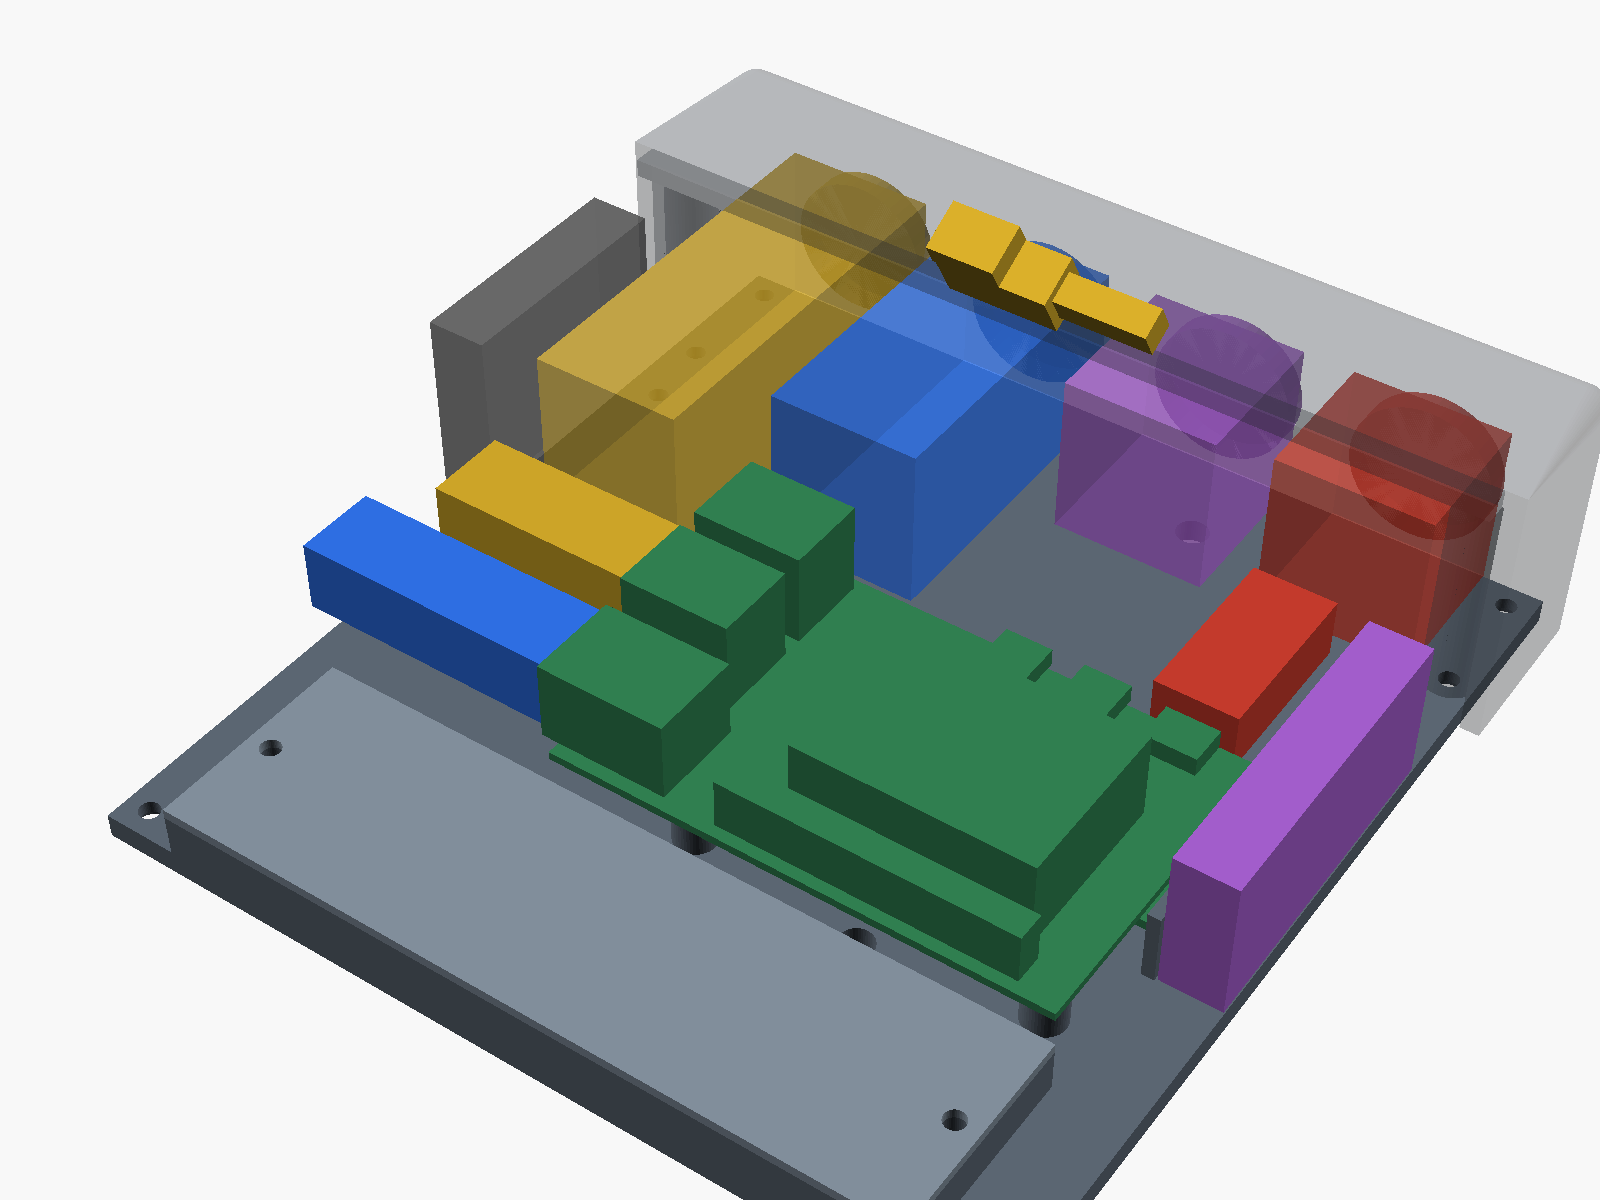
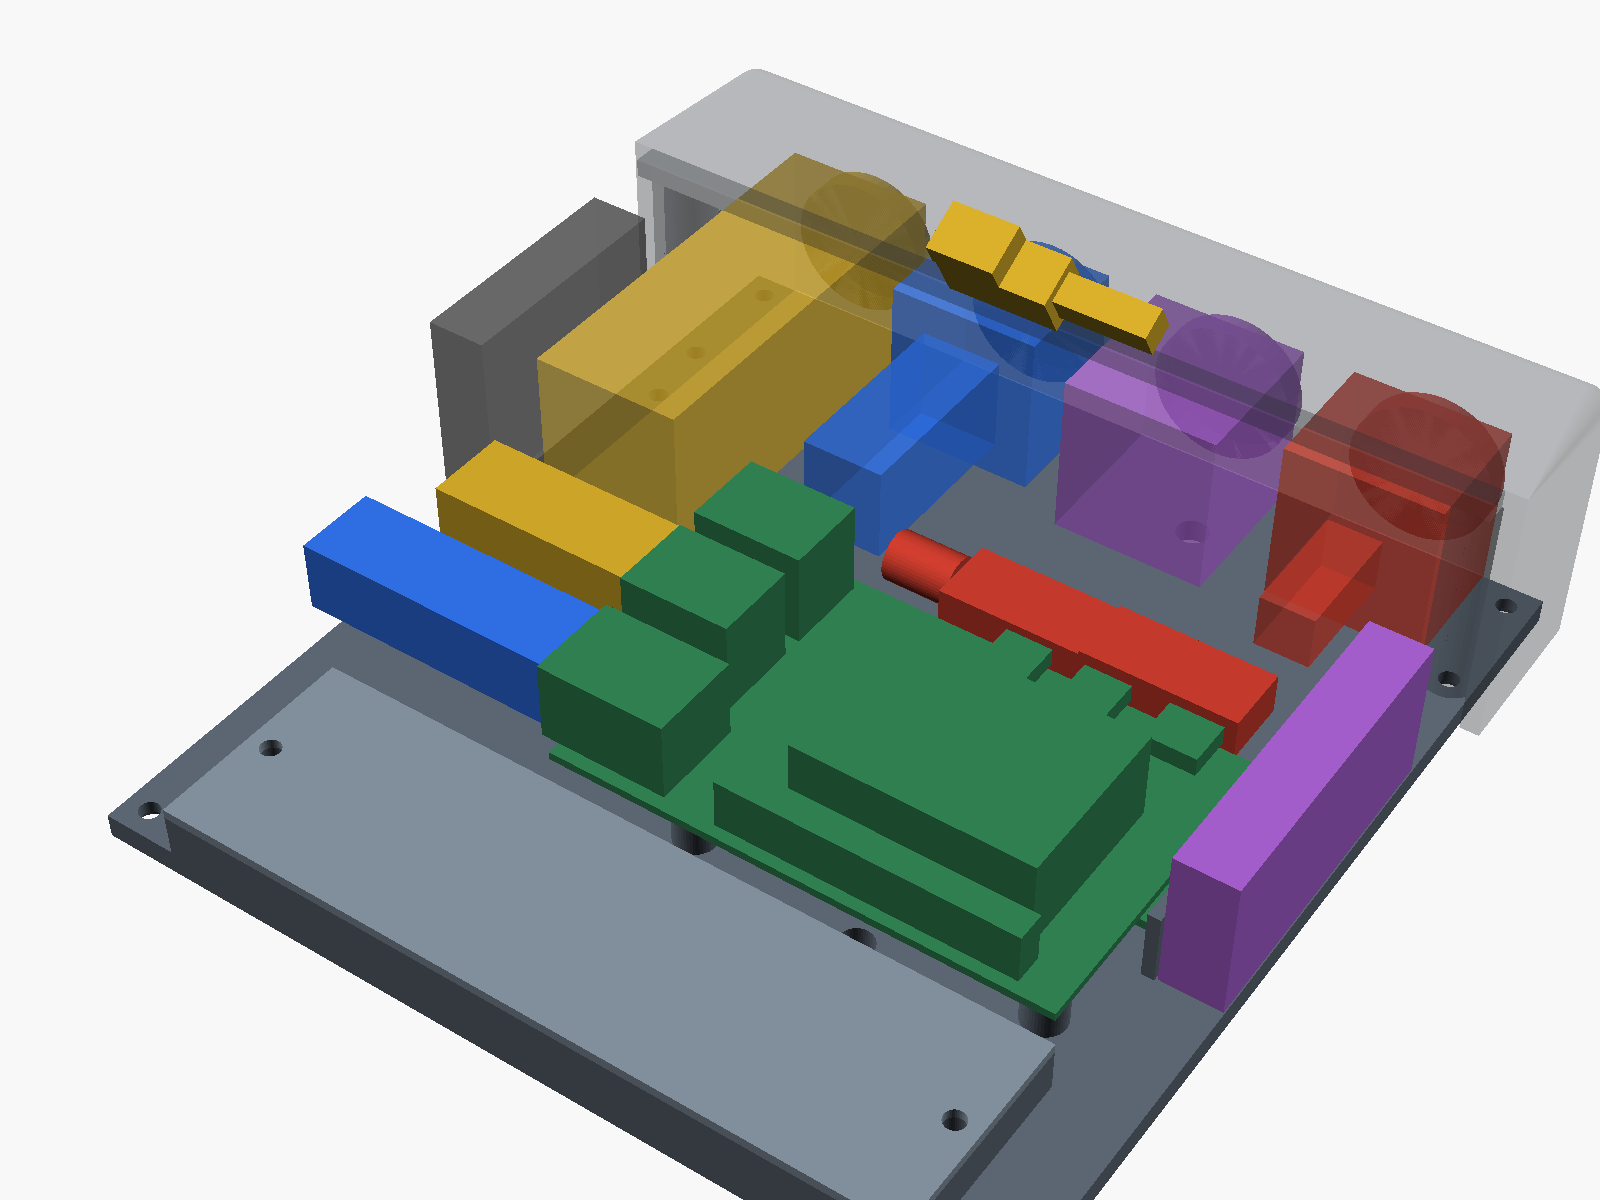
Gehäuse: USB-C am Pi über 90°-Winkeladapter, NAUSBC-5G-FL25, echte Stecker- und Buchsenmaße

Changed region(s): [[0.4688, 0.2467, 0.9062, 0.6167]]

diff --git a/hardware/gehaeuse/README.md b/hardware/gehaeuse/README.md
@@ -35,7 +35,8 @@ bash hardware/gehaeuse/ansichten.sh
 
 **Zuerst `bett.stl` drucken.** Es enthält die Sitze, trägt also das, was am Deck passen muss. Gewindeeinsätze noch nicht nötig: Deck auflegen, Originalschrauben von unten von Hand eindrehen. Passt das, die übrigen Teile drucken; ob die Blende passt, zeigt dann der Korpus.
 
-**Offen: Strom am Pi.** Der gerade USB-C-Stecker der NAUSBC-5G-FL* (laut Neutrik-Zeichnung etwa 36 mm samt Knickschutz, Kabel Ø5,3) endet am Pi nur knapp 4 mm vor dem Gehäuse der USB-C-Buchse in der Rückwand; das Kabel kann dort nicht umknicken. Das gilt für alle Kabellängen. Lösung noch nicht im Modell, Vorschlag: gewinkelter USB-C-Adapter (90°, seitlich nach links) am Pi.
+**Strom am Pi über Winkeladapter.** Der gerade USB-C-Stecker der NAUSBC-5G-FL* (laut Neutrik-Zeichnung 24,3 × 12 × 5,7 mm, Knickschutz 11,5 mm, Kabel Ø5,3) würde am Pi 4 mm vor dem Gehäuse der USB-C-Buchse in der Rückwand enden, das Kabel könnte nicht umknicken. Deshalb steckt im Pi ein 90°-Winkeladapter USB-C (Stecker auf Buchse), dessen Buchse seitlich zu den Micro-HDMI-Ports zeigt; der Neutrik-Stecker liegt dann quer an der Kante des Pi. Nach oben ist kein Platz (Bett und Deck). Maße des Adapters sind **Annahme** (`winkel_adapter`): Buchse höchstens 20 mm neben der Achse des Steckers, höchstens 12 mm tief ab Port, 7 mm dick, Öffnung der Buchse flach (parallel zur Platine). Mit diesen Maßen bleiben zum RJ45-Stecker in der etherCON-Buchse nur etwa 0,7 mm; ein kürzerer Adapter ist besser.
+
 
 Noch offen, in `gehaeuse.scad`:
 
@@ -43,7 +44,8 @@ Noch offen, in `gehaeuse.scad`:
 |---|---|---|---|
 | USB-Winkelstecker am Deck | `usb_gehaeuse`, `usb_hals_l` | Gehäuse 18 × 8 mm, Abgang quer | **Nach Händlerbild.** Hals muss höchstens 8,5 mm dick sein, sonst passt er nicht in die Mulde. Am gekauften Kabel messen und einmal ans Deck stecken |
 | Stecker am Pi | `stecker_*` | USB-A 35 mm, RJ45 45 mm, USB-C 30 mm | **Annahme** |
-| Buchsen samt Stecker innen | `tiefe_usb`, `tiefe_xlr`, `tiefe_eth`, `tiefe_usb3` | 30 / 32 / 60 / 73 mm | USB 3.0: 40 mm gemessen, USB-B-Stecker 33 mm Annahme; USB-C und etherCON-Gehäuse aus Neutrik-Zeichnungen, XLR und RJ45-Stecker **Annahme** |
+| Buchsen samt Stecker innen | `tiefe_usb`, `tiefe_xlr`, `tiefe_eth`, `tiefe_usb3` | 48 / 32 / 60 / 73 mm | USB 3.0: 40 mm gemessen, USB-B-Stecker 33 mm Annahme; USB-C samt Tülle und etherCON-Gehäuse aus Neutrik-Zeichnungen, XLR und RJ45-Stecker **Annahme** |
+| Winkeladapter USB-C am Pi | `winkel_adapter` | 20 / 6,5 / 12 / 7 mm | **Annahme**, gekauften Adapter messen |
 | Kühlkörper Pi | `kuehler_h` | 15 mm | **Annahme**, Kühler noch offen |
 | Neutrik-Ausschnitt | `neutrik_*` | Ø24, zwei Löcher Ø3,2 im Abstand 19 × 24, von außen oben links und unten rechts | [Neutrik-Zeichnungen](https://www.neutrik.com/en/product/ne8fdx-p6) zu NE8FDX-P6 und NAUSBC-5G. Wand 3 mm, an den Löchern Dome auf 7 mm (`neutrik_dom`) für Gewindeeinsätze. Zwischen Einsatz und Ausschnitt bleiben etwa 1,3 mm |
 | Gewindeeinsätze | `einsatz_*_d` | Ø4,0 / Ø3,5 | **Annahme**, Bohrung des gekauften Einsatzes nehmen |
@@ -85,7 +87,8 @@ Kaufteile:
 | 8 | M3 × 10 für die Neutrik-Buchsen, von außen in die Einsätze (Länge an der Buchse prüfen: Flansch + 7 mm) |
 | 2 | M3 × 5, Ballastdeckel |
 | 4 | M2,5 × 6 für den Pi |
-| 1 | Neutrik NAUSBC-5G-FL10, USB-C mit 10 cm Kabel und USB-C-Stecker innen, für Strom |
+| 1 | Neutrik NAUSBC-5G-FL25, USB-C mit 25 cm Kabel und USB-C-Stecker innen, für Strom (Länge für die Schlaufe um den Adapter; kürzere nicht geprüft) |
+| 1 | USB-C-Winkeladapter 90°, Stecker auf Buchse, seitlich gewinkelt, mindestens 3 A, Maße siehe oben |
 | 1 | Neutrik NC3FD-L-1, XLR 3-polig female, DMX-Ausgang |
 | 1 | Neutrik NE8FDX-P6, etherCON, Durchführung, Metallflansch |
 | optional | D-Buchse USB 3.0, außen USB-A, innen USB-B (vom User vorhanden, 40 mm hinter der Wand), dazu Kabel USB-B auf USB-A gewinkelt, etwa 0,3 m |
@@ -121,7 +124,7 @@ PETG, 0,4-mm-Düse, 0,2 mm Schicht, 5 Wände, 25 % Gyroid, keine Stützen. Klebe
 2. Füße kleben. Ballast in die Wanne, Deckel drauf.
 3. Pi mit Kühlkörper auf den Boden schrauben: Bauteilseite oben, USB-C hinten zur Rückwand, USB und Ethernet nach links, SD-Karte rechts. Zum Tauschen der SD-Karte vorher das RS485-Modul aus seinem Halter nehmen. Optional den Lüfter innen an die linke Seitenwand schrauben, saugend, Strom von Pin 4 (5 V) und Pin 14 (GND). RS485-Modul hochkant in den Halter an der rechten Wand stellen und mit einem Kabelbinder sichern.
 4. Acht Gewindeeinsätze von innen in die Dome der Rückwand drücken, langsam und gerade, damit sich der dünne Rand zum Ausschnitt nicht wölbt. Neutrik-Buchsen von außen einsetzen, Flansch außen, je zwei M3 × 10 von außen in die Einsätze. Zur XLR-Buchse drei Litzen vom Modul löten: Pin 1 Schirm, Pin 2 D−, Pin 3 D+. Am Modul laut Schaltplan: 4 = B (D−), 3 = A (D+), 1 = Schirm; am Aufkleber prüfen.
-5. Kasten von hinten über den Boden setzen, mit vier Schrauben von unten befestigen. Optional das USB-3-Kabel von der USB-Buchse mit dem gewinkelten Stecker in den hinteren USB-Port des Pi; der vordere ist für das Deck-Kabel mit geradem Stecker, der hätte hinten keinen Platz neben der Buchse. Für USB 3.0 muss der hintere Port einer der blauen sein, sonst die Kabel tauschen und nachmessen. Patchkabel von der etherCON-Buchse zum Pi, USB-C-Kabel der Neutrik-Buchse als Schlaufe über dem USB-C-Stecker des Pi hinten rechts führen (für einen geraden Weg ist zwischen Buchse und Pi kein Platz).
+5. Kasten von hinten über den Boden setzen, mit vier Schrauben von unten befestigen. Optional das USB-3-Kabel von der USB-Buchse mit dem gewinkelten Stecker in den hinteren USB-Port des Pi; der vordere ist für das Deck-Kabel mit geradem Stecker, der hätte hinten keinen Platz neben der Buchse. Für USB 3.0 muss der hintere Port einer der blauen sein, sonst die Kabel tauschen und nachmessen. Patchkabel von der etherCON-Buchse zum Pi, Winkeladapter in den USB-C des Pi, Buchse zu den Micro-HDMI-Ports. Kabel der Neutrik-USB-C-Buchse vorn über den Adapter führen und als Schlaufe in den Adapter stecken, ohne Zug; die Schlaufe darf das Patchkabel kreuzen.
 6. Grove-Kabel vom Modul zum Pi: rot an Pin 2 (5 V), schwarz an Pin 6 (GND), der Eingang des Moduls (laut Schaltplan IO1 „UART_Rx“, beim Grove-Kabel vermutlich gelb) an Pin 8 (GPIO 14, TX). Die Farbzuordnung am Aufkleber des Moduls prüfen.
 7. Beim Publikum: Boden mit den zwei M5-Schrauben auf den Tisch schrauben.
 8. Fuß vom Deck abschrauben. Deck auf das Bett legen, die zwei Originalschrauben von unten durch die schrägen Kanäle eindrehen. Nur handfest, das Gewinde sitzt im Deck.
@@ -151,7 +154,7 @@ vcgencmd get_throttled
 
 ## Geprüft am Modell
 
-Siehe `pruefbericht.txt`: alle STL dicht, passen in den Bauraum, keine Überschneidung zwischen Teilen und Platzhaltern für Deck, Pi, USB-, RJ45- und Netzstecker, die vier Neutrik-Buchsen, das RS485-Modul und den Lüfter. Die Kabelschlaufen innen sind nicht modelliert.
+Siehe `pruefbericht.txt`: alle STL dicht, passen in den Bauraum, keine Überschneidung zwischen Teilen und Platzhaltern für Deck, Pi, USB-, RJ45- und Netzstecker, die vier Neutrik-Buchsen, das RS485-Modul und den Lüfter. Die Kabelschlaufen innen sind nicht modelliert, nur Stecker, Tüllen und der Winkeladapter.
 
 Das echte Elgato-Modell wird punktweise gegen die Teile geprüft, weil sein Netz nicht geschlossen ist. Auch der Gegentest war positiv: Schon 0,25 mm Versatz des Betts meldet Berührung; Sitze und Bohrungen fluchten im Schnitt mit den Domen. Die Prüfung läuft nur, wenn `lokal/deck.stl` vorhanden ist:
 
